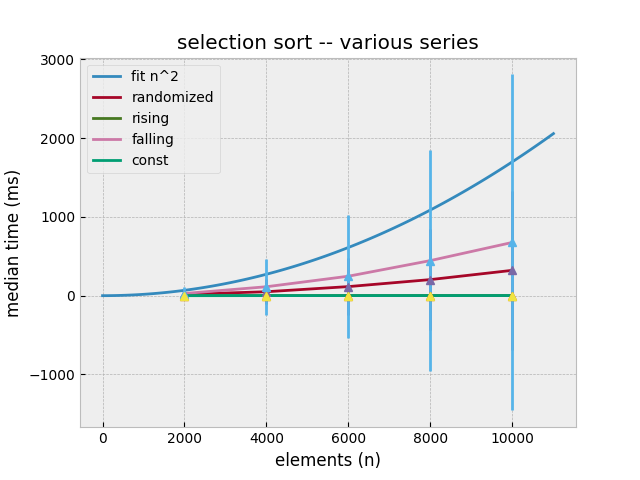
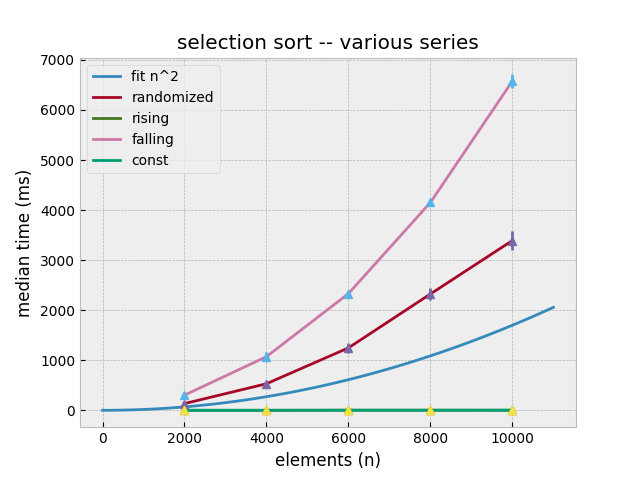
Data has been generated
Now we only need to correctly plot the data and maybe re:generate data where it shows to be lacking

diff --git a/main.py b/main.py
@@ -9,33 +9,13 @@ import numpy as np
 sys.setrecursionlimit(320000)
 
 # Generate a range of n values
-n_values = np.linspace(1, 12000, 100)
-# quicksort_results = generate_all_results(quicksort, "quicksort", 2000, 10001, 2000)
-quicksort_results = read_class_from_file("algorithm_time_results/quicksort")
-
-plot_series(quicksort_results.rand.elements, quicksort_results.rand.median,
-            'randomized', quicksort_results.rand.deviation)
-plot_k_estimate(n_values, n_log_n, 2.1e-3, 'fit n log n')
-plot_k_estimate(n_values, linear, 1.7e-2, 'fit linear')
-generate_graph("quicksort -- random series", "quicksort_randomized")
-
-plot_k_estimate(n_values, quadratic, 2.1e-4, 'fit n^2')
-plot_series(quicksort_results.rising.elements, quicksort_results.rising.median,
-            'rising', quicksort_results.rising.deviation)
-plot_series(quicksort_results.falling.elements, quicksort_results.falling.median,
-            'falling', quicksort_results.falling.deviation)
-plot_series(quicksort_results.const.elements, quicksort_results.const.median,
-            'const', quicksort_results.const.deviation)
-generate_graph("quicksort -- various series", "quicksort_various")
-
 n_values = np.linspace(1, 11000, 100)
+# quicksort_results = generate_all_results(quicksort, "quicksort", 2000, 10001, 2000)
+
 write_class_to_file(generate_all_results(insertion_sort, "insertionsort", 2000, 10001, 2000), "algorithm_time_results/insertionsort")
-r = read_class_from_file("algorithm_time_results/insertionsort")
-plot_k_estimate(n_values, quadratic, 1.7e-5, 'fit n^2')
-plot_series(r.rand.elements, r.rand.deviation, 'randomized', r.rand.median)
-plot_series(r.rising.elements, r.rising.deviation, 'rising', r.rising.median)
-plot_series(r.falling.elements, r.falling.median, 'falling', r.falling.deviation)
-plot_series(r.const.elements, r.const.median, 'const', r.const.deviation)
-generate_graph("selection sort -- various series", "insertionsort_various")
+
+# write_class_to_file(generate_all_results(sorted, "timsort", 100000, 1000001, 100000), "algorithm_time_results/timsort")
+# write_class_to_file(generate_all_results(mergesort, "mergesort", 2000, 16001, 2000), "algorithm_time_results/mergesort")
+# write_class_to_file(generate_all_results(median_of_three_quicksort, "median_of_three_quicksort", 2000, 16001, 2000), "algorithm_time_results/median_of_three_quicksort")
 
 print("done")

diff --git a/algorithm_benchmarking.py b/algorithm_benchmarking.py
@@ -93,9 +93,10 @@ def run_algorithm(func, array):
     # will then append the time taken to an array.
     # returns the median of all elements inside the array
     sort_times = []
-    for i in range(10):
+    for i in range(5):
+        temp_array = list(array)
         start = time.time()
-        func(array)
+        func(temp_array)
         end = time.time()
         time_taken = (end - start) * 1000
         sort_times.append(time_taken)

diff --git a/implemented_algorithms.py b/implemented_algorithms.py
@@ -134,6 +134,7 @@ def insertion_sort(arr):
 
 
 def selection_sort(arr):
+    #TODO: This currenly modifies the list, causing our graphs to turn out janky!
     for i in range(len(arr)):
         min_index = i
         for j in range(i + 1, len(arr)):
